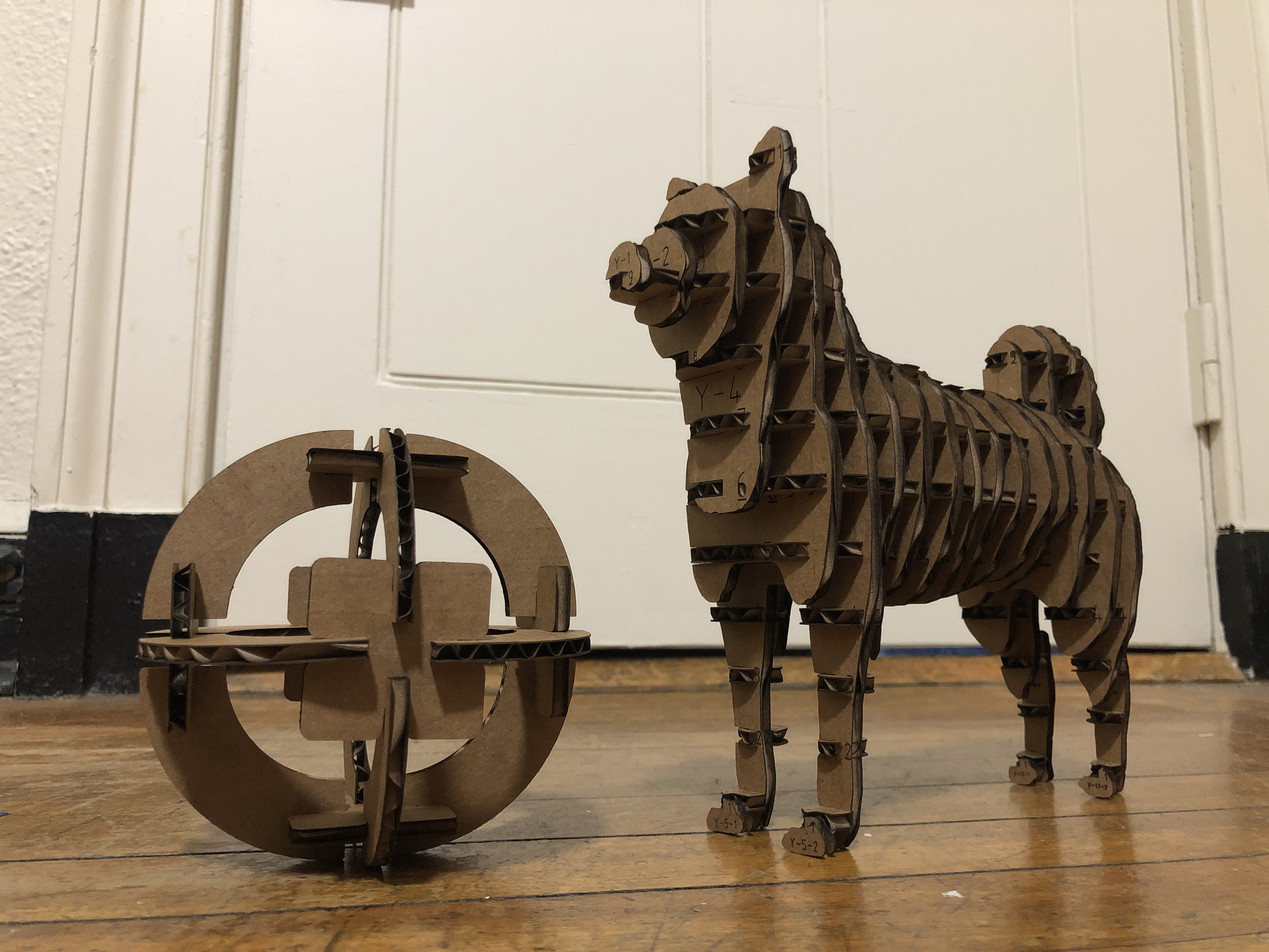
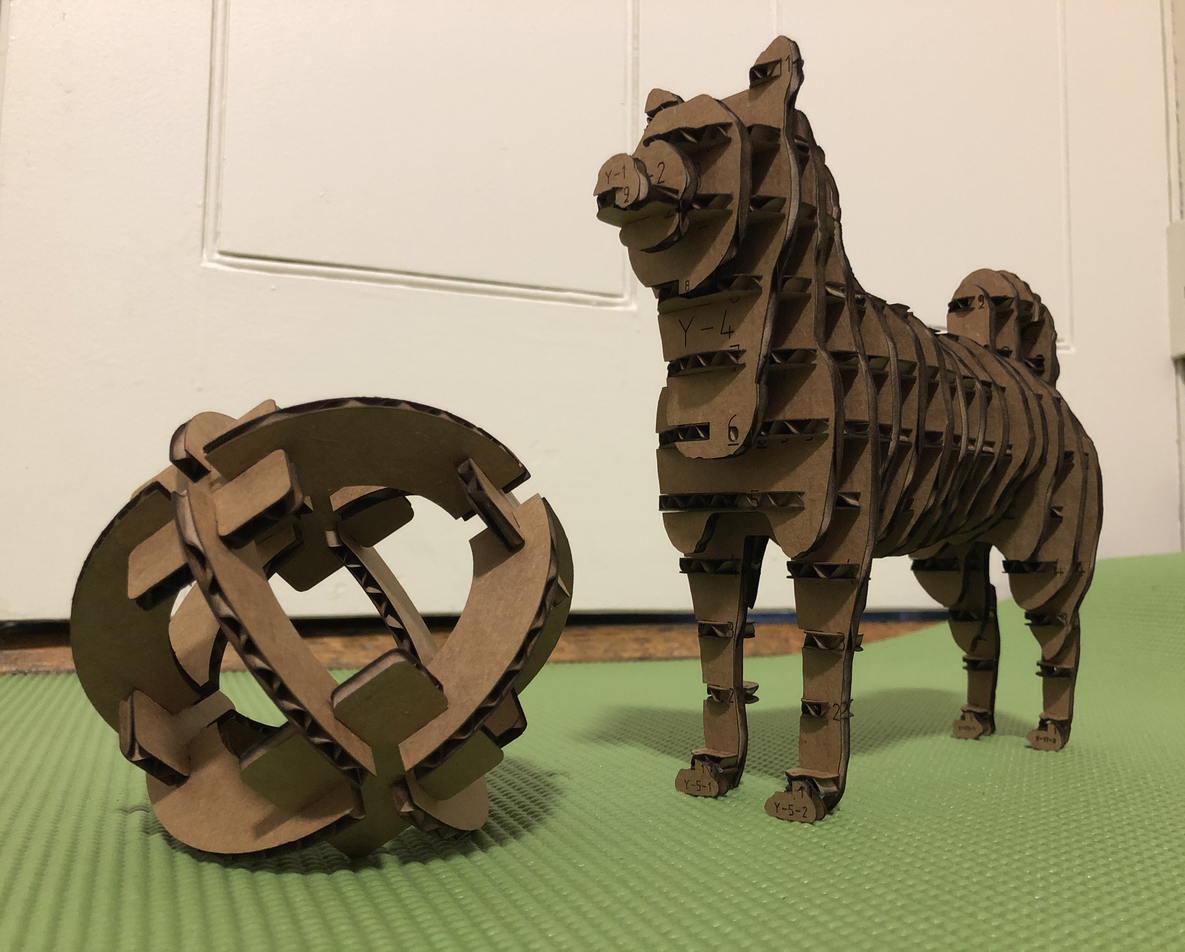
week 2 hours

diff --git a/02_2d/index.html b/02_2d/index.html
@@ -1,0 +1,56 @@
+<!DOCTYPE html>
+<html lang="en">
+<head>
+  <title>PHYSCI 70: Intro to Digital Fabrication </title>
+  <meta charset="utf-8">
+  <meta name="viewport" content="width=device-width, initial-scale=1">
+  <link rel="stylesheet" href="https://maxcdn.bootstrapcdn.com/bootstrap/3.4.1/css/bootstrap.min.css">
+  <script src="https://ajax.googleapis.com/ajax/libs/jquery/3.4.1/jquery.min.js"></script>
+  <script src="https://maxcdn.bootstrapcdn.com/bootstrap/3.4.1/js/bootstrap.min.js"></script>
+  <link href="../style.css" rel="stylesheet">
+  <link rel="apple-touch-icon" sizes="180x180" href="./favicon/apple-touch-icon.png">
+  <link rel="icon" type="image/png" sizes="32x32" href="./favicon/favicon-32x32.png">
+  <link rel="icon" type="image/png" sizes="16x16" href="./favicon/favicon-16x16.png">
+  <link rel="manifest" href="./favicon/site.webmanifest">
+</head>
+<body>
+
+<div class="container-fluid">
+  <h3 style="text-align:center;" id="title"> Week 2: 2D Design & Cutting </h3>
+  <div class="row">
+
+    <h4 style="text-align: left; margin-left: 20px;"> <u> Doge </u> </h4>
+
+      <p style="text-align:left; margin-left: 20px; margin-right: 20px;"> This week's task was to design and laser cut a press-fit
+        construction kit from cardboard. </p>
+
+      <img src="./circuit.jpg" align="left" class="img-responsive margin" style="width:20%; margin-left: 20px" alt="Behold, the circuit!" hspace="15">
+
+      <p style="text-align:left; margin-right: 20px;"> After grappling with the breadboard, I moved onto Arduino, connecting the microcontroller to my computer's
+        USB port. From there, I installed the appropriate boards and used the source code for a 'Blink' loop. I then
+        compiled the code and let 'er rip! The red LED on the microcontroller blinked successfully, and I could speed up or slow down the lapse
+        of time in between the pulses. Below is a video: </p>
+
+      <video width="320" height="240" style="float: right; margin-right: 80px; margin-left: 20px;" controls>
+        <source src="./blink.mp4" style="float: right; margin-right: 80px;" type="video/mp4">
+        </video>
+
+        <p style='margin-left: 20px';> Working with the circuits presented a great opportunity to re-aquaint myself with electricity
+        and its properties following an ~eight-year hiatus. This project helped me to better understand
+        how solitary electrons are ousted from the outer valence shells of conductive metals and passed from
+        one atom to another to create the constant flow that characterizes current. Also, it was intriguing to learn how the resistor's
+        value can be calculated with Ohm's law (and demonstrated with colorful banding) to ensure that the LED
+        is kept under its maximum current rating and avoid blow-outs such as that I initially instigated. The
+        multimeter showed the dissipation of approximately 0.5V across the resistor. </p>
+
+
+
+  </div>
+
+
+
+
+</div>
+
+</body>
+</html>

diff --git a/index.html b/index.html
@@ -24,8 +24,8 @@
       <h4><a href='./01_intro/index.html'>Week 1: Introduction & Documentation </a></h4>
     </div>
     <div class="col-sm-4">
-      <img src="./01_intro/doge-ball.jpg" class="img-responsive margin" style="width:100%" alt="Sew">
-      <h4><a href=''>Week 2: 2D Design & Cutting </a></h4>
+      <img src="./01_intro/ddoge.jpg" class="img-responsive margin" style="width:100%" alt="Sew">
+      <h4><a href='./02_2d/index.html'>Week 2: 2D Design & Cutting </a></h4>
     </div>
     <div class="col-sm-4">
       <img src="./01_intro/q.jpg" class="img-responsive margin" style="width:100%" alt="Sew">

diff --git a/02_2d/style.css b/02_2d/style.css
@@ -1,0 +1,19 @@
+body {
+    font: 20px Montserrat, sans-serif;
+    line-height: 1.8;
+    color: black;
+    background-image: url(./01_intro/cboard.jpg);
+  }
+
+p {font-size: 16px;}
+.margin {margin-bottom: 15px;}
+
+.container-fluid {
+  padding: 30px;
+  padding-bottom: 70px;
+}
+
+#title {
+  font: 24px Monaco;
+  color: #51A8C9;
+}
